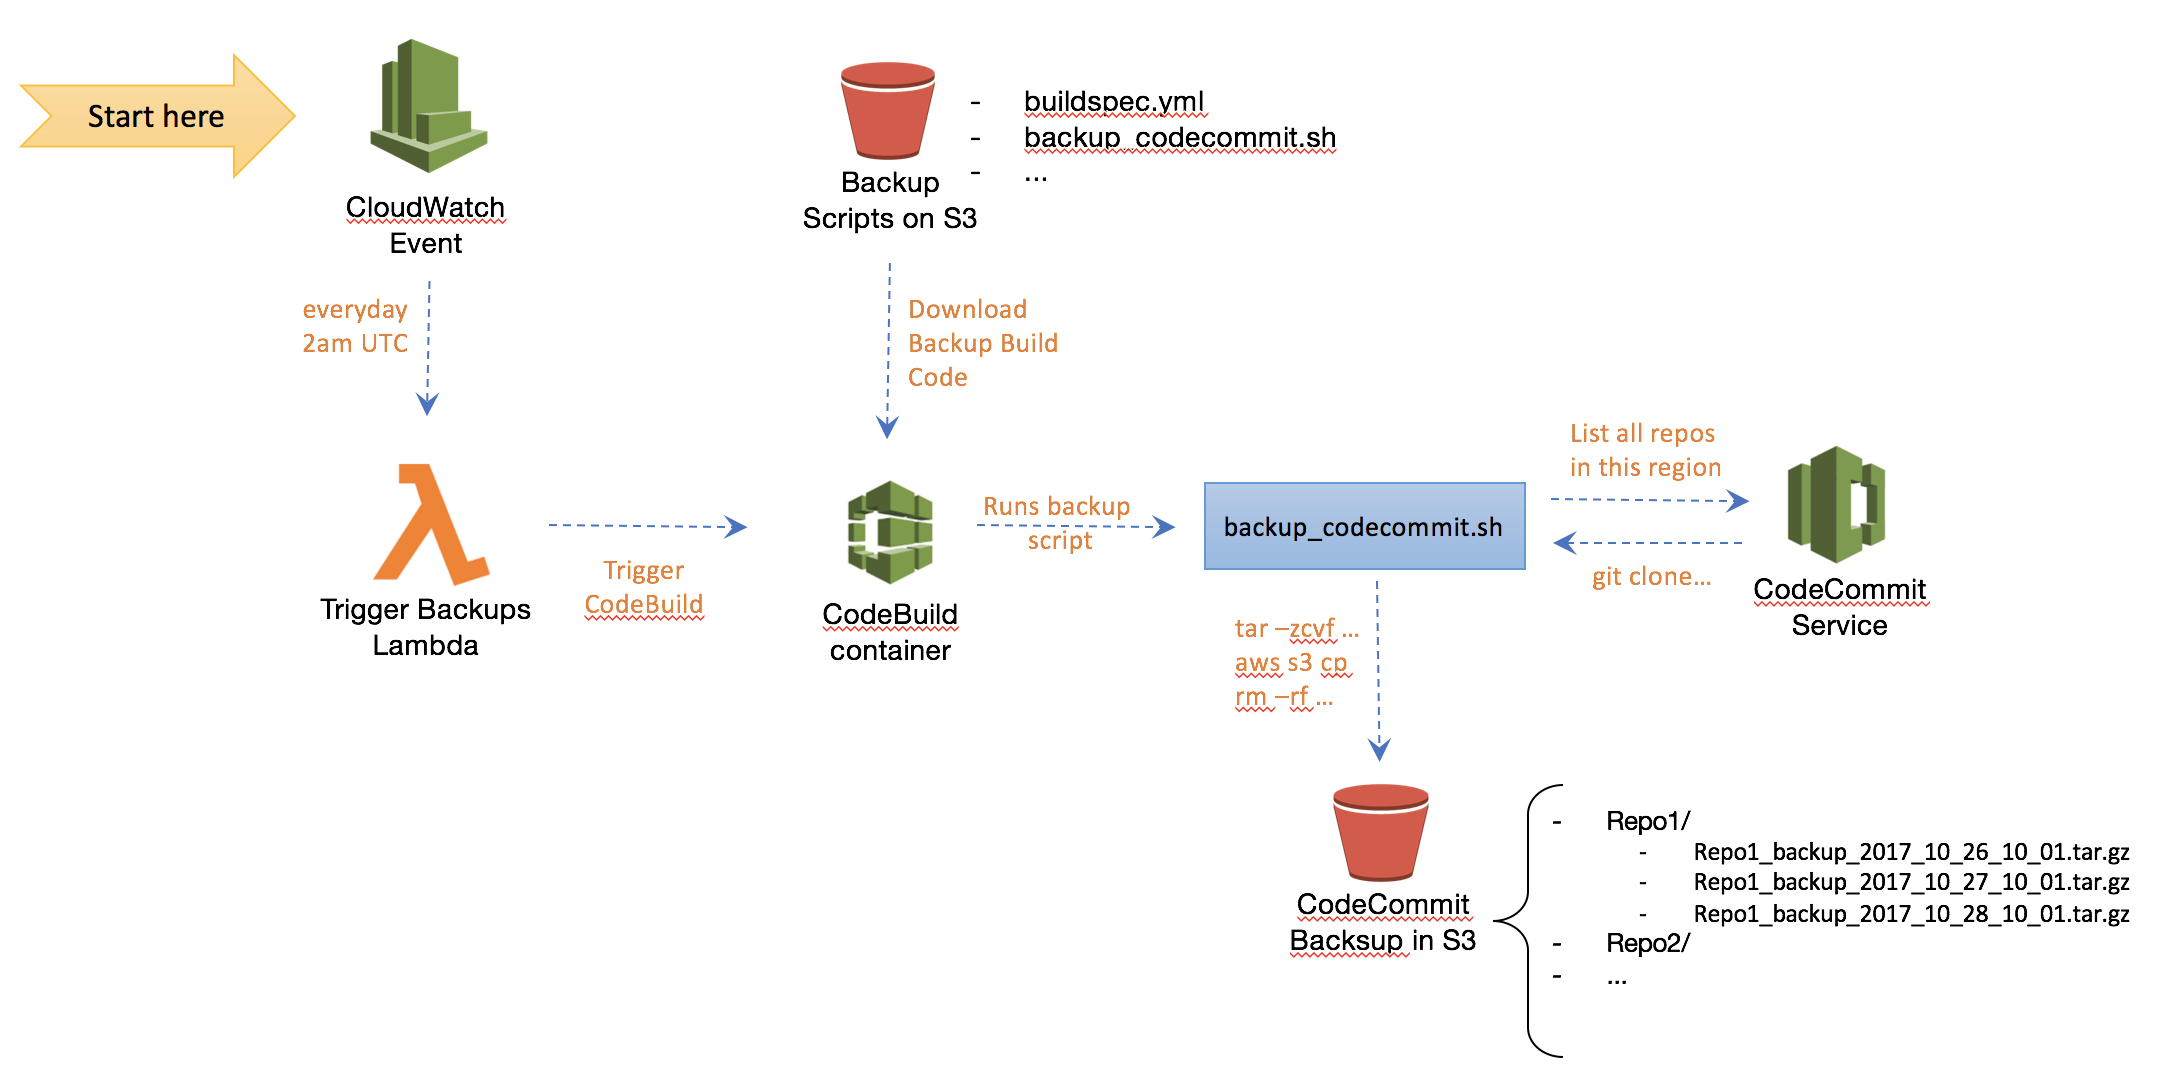
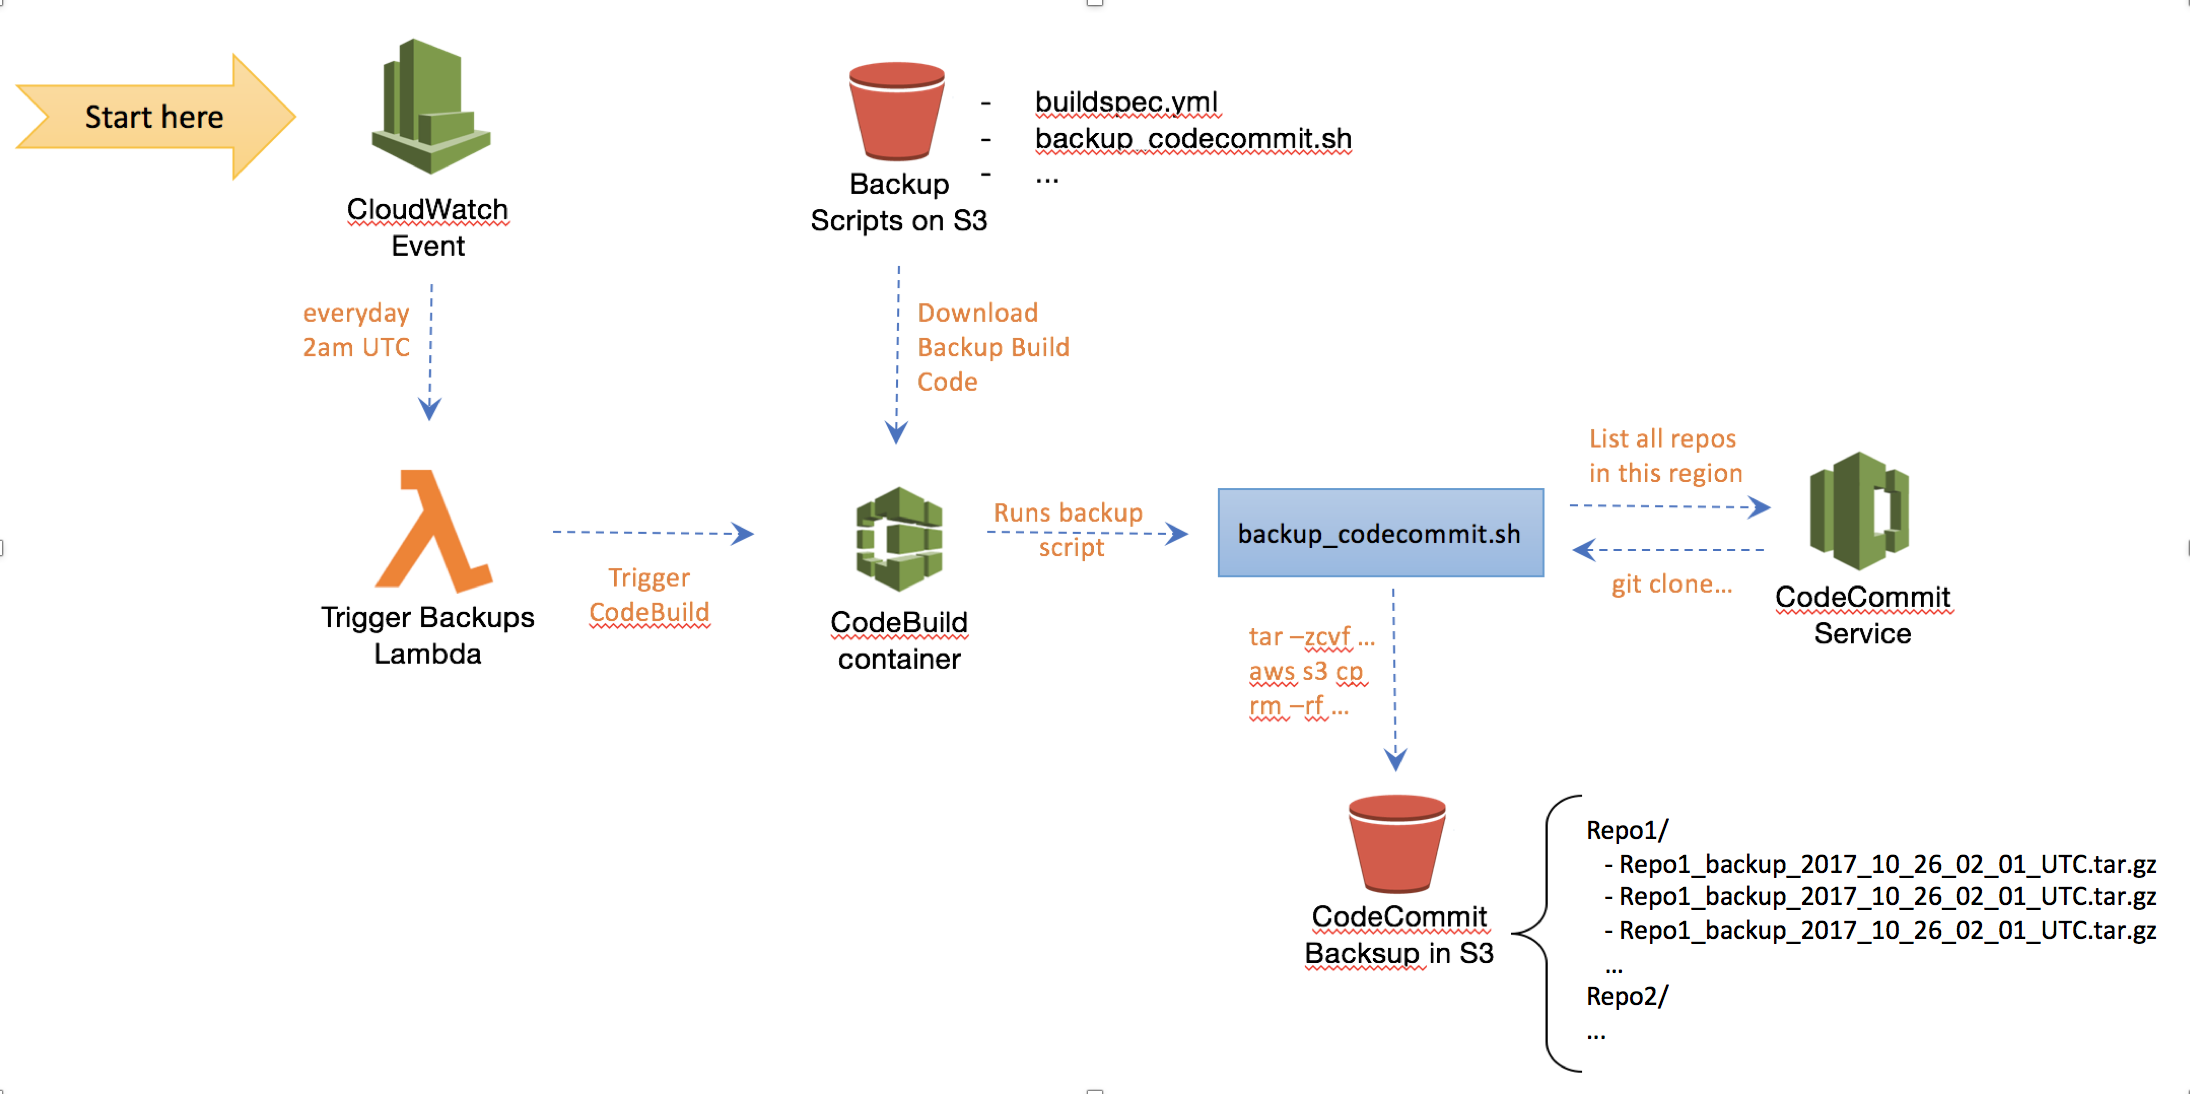
Using UTC date/time to name backup files

diff --git a/codecommit_backup_trigger_lambda.py b/codecommit_backup_trigger_lambda.py
@@ -14,7 +14,7 @@
 import boto3
 client = boto3.client('codebuild')
 def handler(event, context): 
-    response = client.start_build(projectName='${CodeBuildProject}')
-    output = "Triggered CodeBuild project: 'CodeCommitBackup' to back all CodeCommit repos. Status={}".format(response["build"]["buildStatus"])
+    response = client.start_build(projectName='CodeCommitBackup')
+    output = "Triggered CodeBuild project: 'CodeCommitBackup' to back all CodeCommit repos in this account/region. Status={}".format(response["build"]["buildStatus"])
     print(output)
     return output
